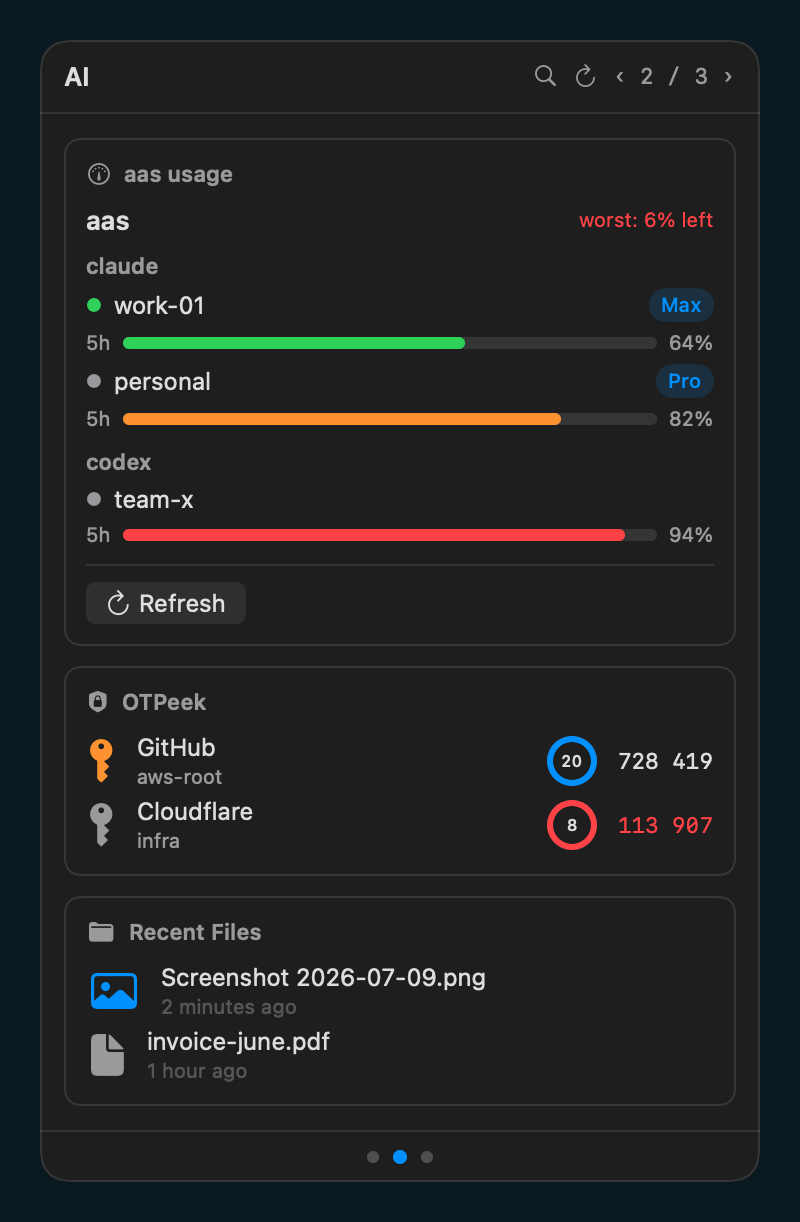
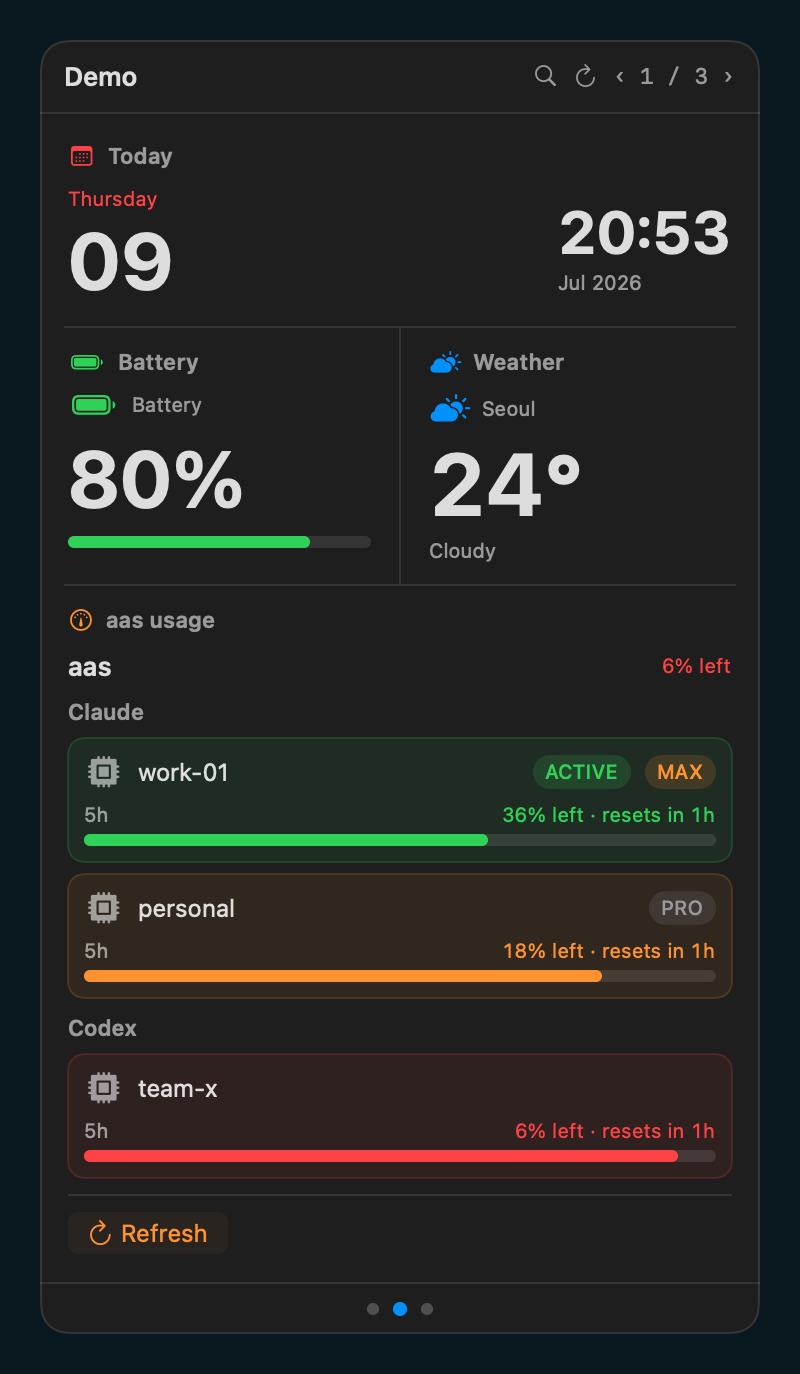
feat(site): real widget-render preview gallery on the landing page
barshelf screenshot now also emits standalone widget-card tiles (light theme,
transparent margins) rendered by the actual ViewTreeRenderer; the landing page
gets a masonry "Real Renders" section showing seven of them — today, otpeek,
weather, aas usage, recent files, battery, and a custom-script list.

diff --git a/site/index.html b/site/index.html
@@ -337,6 +337,28 @@
       aspect-ratio: 840 / 720;
       object-fit: cover;
     }
+    .tile-gallery {
+      columns: 3;
+      column-gap: 16px;
+      margin-top: 38px;
+    }
+    .tile-gallery figure {
+      margin: 0 0 16px;
+      break-inside: avoid;
+    }
+    .tile-gallery img {
+      width: 100%;
+      height: auto;
+      filter: drop-shadow(0 10px 24px rgba(17, 19, 21, 0.10));
+    }
+    .tile-gallery figcaption {
+      margin-top: 2px;
+      padding-left: 6px;
+      font-size: 12px;
+      color: var(--muted);
+      font-family: var(--mono);
+    }
+
     .practice-list {
       display: grid;
       gap: 0;
@@ -537,6 +559,7 @@
       .proof-row, .grid-3, .model, .terminal-grid { grid-template-columns: 1fr 1fr; }
       .split { grid-template-columns: 1fr; }
       .showcase-grid { grid-template-columns: 1fr; }
+      .tile-gallery { columns: 2; }
     }
     @media (max-width: 640px) {
       .wrap { width: min(var(--max), calc(100% - 28px)); }
@@ -551,6 +574,7 @@
       .proof-row, .grid-3, .model, .terminal-grid { grid-template-columns: 1fr; }
       section { padding: 58px 0; }
       .section-head h2 { font-size: clamp(30px, 10vw, 42px); }
+      .tile-gallery { columns: 1; }
     }
   </style>
 </head>
@@ -697,6 +721,29 @@
               </div>
             </article>
           </div>
+        </div>
+      </div>
+    </section>
+
+    <section id="previews">
+      <div class="wrap">
+        <div class="reveal">
+          <div class="label"><span class="en">Real Renders</span><span class="ko">실제 화면</span></div>
+          <div class="section-head">
+            <h2 class="en">Not mockups. Actual widget renders.</h2>
+            <h2 class="ko">목업이 아니라, 실제 위젯 렌더입니다.</h2>
+            <p class="en">Every tile below is drawn by the app's own SwiftUI renderer — the exact pixels the popover shows, generated straight from <code>barshelf screenshot</code>.</p>
+            <p class="ko">아래 타일은 전부 앱의 SwiftUI 렌더러가 직접 그린 결과물입니다. 팝오버에서 보게 될 화면 그대로를 <code>barshelf screenshot</code>으로 뽑았습니다.</p>
+          </div>
+        </div>
+        <div class="tile-gallery reveal">
+          <figure><img src="shots/tile-today.png" width="576" height="220" loading="lazy" alt="Today widget — date and clock, real render" /><figcaption>today</figcaption></figure>
+          <figure><img src="shots/tile-otp.png" width="576" height="225" loading="lazy" alt="OTP Codes widget with countdown rings, real render" /><figcaption>otpeek</figcaption></figure>
+          <figure><img src="shots/tile-weather.png" width="576" height="272" loading="lazy" alt="Weather widget, real render" /><figcaption>weather</figcaption></figure>
+          <figure><img src="shots/tile-aas.png" width="576" height="704" loading="lazy" alt="aas usage widget with LLM quota meters, real render" /><figcaption>aas usage</figcaption></figure>
+          <figure><img src="shots/tile-files.png" width="576" height="222" loading="lazy" alt="Recent Files widget, real render" /><figcaption>recent files</figcaption></figure>
+          <figure><img src="shots/tile-battery.png" width="576" height="256" loading="lazy" alt="Battery widget with charge meter, real render" /><figcaption>battery</figcaption></figure>
+          <figure><img src="shots/tile-k8s.png" width="576" height="202" loading="lazy" alt="Custom k8s pods list widget, real render" /><figcaption>your script here</figcaption></figure>
         </div>
       </div>
     </section>

diff --git a/Sources/MenubucketApp/ScreenshotMode.swift b/Sources/MenubucketApp/ScreenshotMode.swift
@@ -17,6 +17,24 @@ enum ScreenshotMode {
         ok = render(PopoverShot(scheme: .dark), name: "popover-dark", to: dir) && ok
         ok = render(PopoverShot(scheme: .light), name: "popover-light", to: dir) && ok
         ok = render(BuilderShot(), name: "builder", to: dir) && ok
+        // Standalone widget-card tiles for the landing-page preview gallery
+        // (light — the landing page is a fixed light theme).
+        let tiles: [(name: String, title: String, icon: String, node: UINode, accent: String?)] = [
+            ("tile-today", "Today", "calendar", ShotData.todayNode, "red"),
+            ("tile-weather", "Weather", "cloud.sun.fill", ShotData.weatherNode, "blue"),
+            ("tile-battery", "Battery", "battery.100percent", ShotData.batteryNode, "green"),
+            ("tile-otp", "OTP Codes", "key.fill", ShotData.otpNode, "purple"),
+            ("tile-files", "Recent Files", "clock.arrow.circlepath", ShotData.filesNode, nil),
+            ("tile-aas", "aas usage", "gauge", ShotData.aasNode, "orange"),
+            ("tile-k8s", "k8s pods", "shippingbox", ShotData.k8sNode, nil),
+        ]
+        for tile in tiles {
+            ok = render(
+                TileShot(title: tile.title, icon: tile.icon, node: tile.node, accentName: tile.accent),
+                name: tile.name,
+                to: dir
+            ) && ok
+        }
         return ok ? 0 : 1
     }
 
@@ -183,6 +201,26 @@ private struct ShotCard: View {
         .padding(.horizontal, 14)
         .padding(.vertical, 10)
         .frame(maxWidth: .infinity, alignment: .topLeading)
+    }
+}
+
+/// One widget card as a standalone tile — the landing page's preview gallery.
+/// Transparent margins around a bordered panel, so the tile sits on any page
+/// background.
+private struct TileShot: View {
+    let title: String
+    let icon: String
+    let node: UINode
+    var accentName: String? = nil
+
+    var body: some View {
+        ShotCard(title: title, icon: icon, node: node, accentName: accentName)
+            .frame(width: 280)
+            .background(Color(nsColor: .controlBackgroundColor))
+            .clipShape(RoundedRectangle(cornerRadius: 12))
+            .overlay(RoundedRectangle(cornerRadius: 12).strokeBorder(Color.primary.opacity(0.12), lineWidth: 1))
+            .padding(4)
+            .environment(\.colorScheme, .light)
     }
 }
 